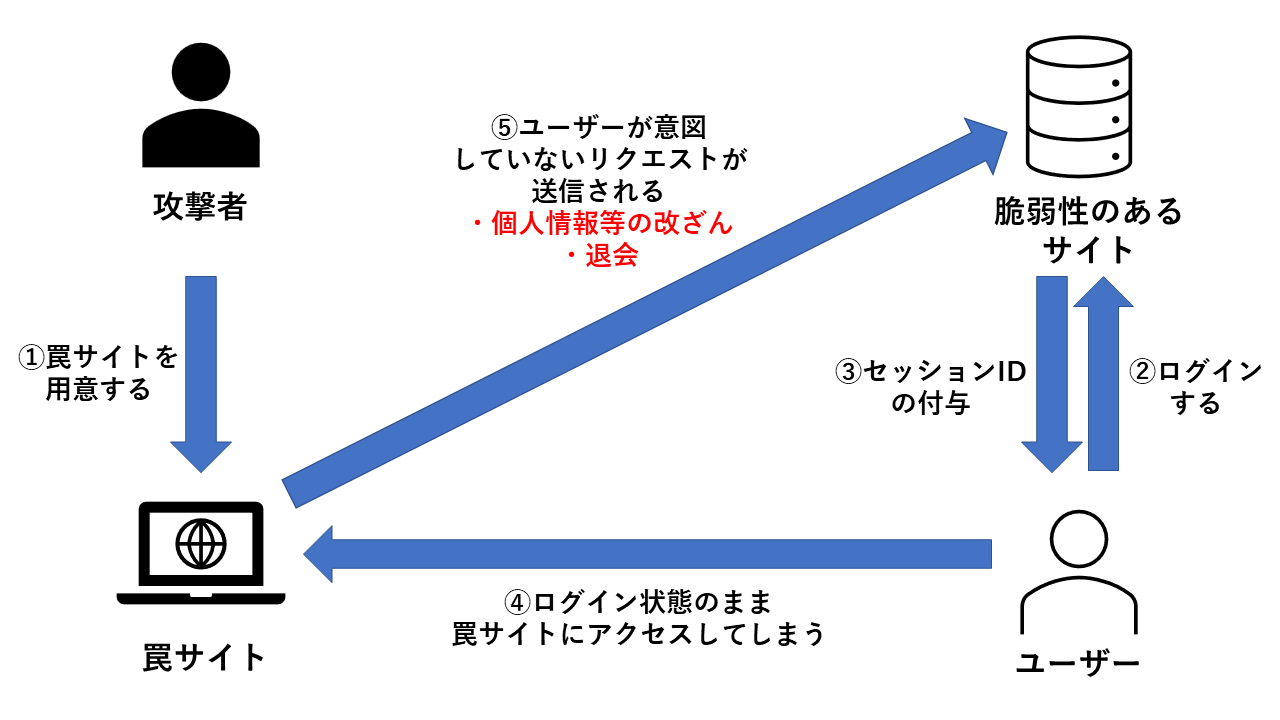
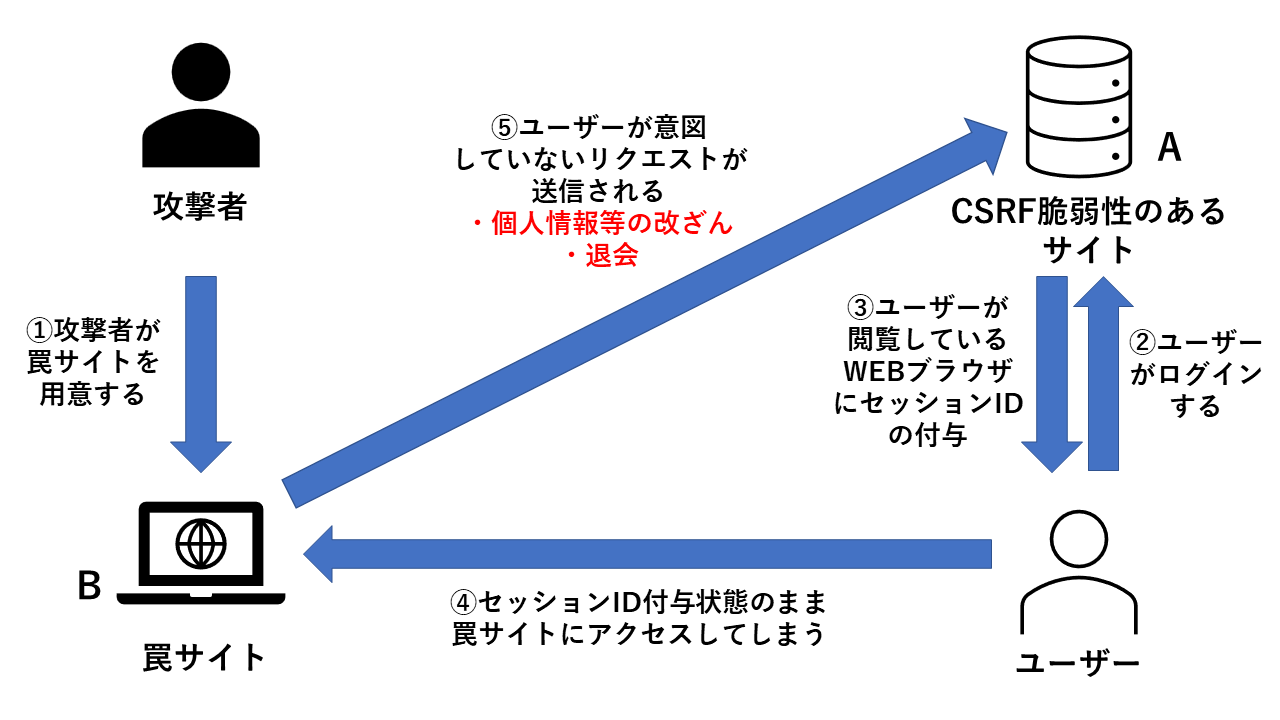
Update

diff --git a/go/static/OpenRedirect/IndexOpenRedirect.html b/go/static/OpenRedirect/IndexOpenRedirect.html
@@ -9,20 +9,43 @@
 <body>
     <h1>オープンリダイレクト攻撃</h1>
     <div>
-        オープンリダイレクト攻撃とは、webブラウザであるサイトを入力したときに、他のサイトへ自動的に移動するリダイレクトという機能を悪用した攻撃のことです。フィッシング詐欺などに悪用されます。
-        <img src="../../resources/images/openredirect.png" width="600px" alt="nothing">
+        オープンリダイレクト攻撃とは、webブラウザであるサイトを入力したときに、
+        他のサイトへ自動的に移動するリダイレクトという機能を悪用した攻撃のことです。
+        フィッシング詐欺などに悪用されます。
+        <img src="../../resources/images/openredirect.png" width="600px" 
+        alt="nothing"><br>
+        ①攻撃者はまず、オープンリダイレクト脆弱性のあるサイト（A）を探し出します。
+        その後、アクセスすると情報が盗まれるような
+        悪意のあるアプリケーション（Ｂ）を用意します。<br>
+        ②Ａのオープンリダイレクト脆弱性を利用して、
+        強制的にＢにリダイレクトするような、
+        罠となるリンクを作成します。<br>
+        &emsp;そのリンクを、普段Ａを利用しているユーザーにメールで送り付けます。<br>
+        ③ユーザーはそのリンクを信頼できるＷＥＢアプリケーションだと判断し、
+        アクセスされてしまいます。<br>
+        ④ユーザーは強制的にリダイレクトされます。<br>
+        ⑤④のリダイレクトにより、ユーザーはＢにアクセスしてしまい。
+        情報を盗まれてしまいます。
     </div><br>
     <div>
         それでは、オープンリダイレクト攻撃の演習を行っていきます。<br>
         まず、以下のリンクをクリックして、どのようなものか確認してください。<br>
-        <a href="/OpenRedirect/LoginForm">オープンリダイレクト脆弱性をもったサイト</a>
+        <a href="/OpenRedirect/LoginForm">
+            オープンリダイレクト脆弱性をもったサイト</a>
     </div><br>
     <div>
-        以下のリンクがリダイレクト機能を悪用したものになります。アクセス後にURLを確認してもらえれば、url変数に罠サイトへのリンクが代入されていることがわかります。この変数はリダイレクト機能に使われるものであるため、ログインが成功したらそのリンクへと遷移させることができます。
+        以下のリンクがリダイレクト機能を悪用したものになります。
+        アクセス後にURLを確認してもらえれば、
+        url変数に罠サイトへのリンクが代入されていることがわかります。
+        この変数はリダイレクト機能に使われるものであるため、
+        ログインが成功したらそのリンクへと遷移させることができます。
         このリンクにアクセスすることが図の③にあたります。<br>
         これがオープンリダイレクト攻撃です。<br>
-        それでは、以下のリンクにアクセスしてオープンリダイレクト攻撃を体験してみてください。<br>
-        <a href="/OpenRedirect/LoginForm?url=http://localhost:8080/OpenRedirect/TrapSite1">オープンリダイレクトテスト</a>
+        それでは、以下のリンクにアクセスしてオープンリダイレクト攻撃を
+        体験してみてください。<br>
+        <a href="/OpenRedirect/LoginForm?url=
+        http://localhost:8080/OpenRedirect/TrapSite1">
+        オープンリダイレクトテスト</a>
     </div>
 </body>
 </html>

diff --git a/go/static/CSRF/IndexCSRF.html b/go/static/CSRF/IndexCSRF.html
@@ -9,13 +9,33 @@
 <body>
     <h1>CSRF</h1>
     <div>
-        CSRFとは、正規のユーザーが意図していないリクエストを攻撃者が強制的に送信することで、正規のユーザーしかできないはずの操作を行うことができる攻撃のことです。<br>
-        ユーザー認証に不備のある（CSRF脆弱性をもつ）サイトに正規ユーザーがログインしている状態で、その正規ユーザーが罠サイトにアクセスしてしまうと、正規ユーザーが意図していないリクエストが送信されてしまいます。<br>
-        ユーザー認証にはCookie認証やHTTP認証などがありますが、それらの認証が不十分であるときにこの脆弱性が発生します。<br>
+        CSRFとは、正規のユーザーが意図していないリクエストを攻撃者が強制的に
+        送信することで、正規のユーザーしかできないはずの操作を行うことができる
+        攻撃のことです。<br>
+        ユーザー認証に不備のある（CSRF脆弱性をもつ）サイトに正規ユーザーが
+        ログインしている状態で、その正規ユーザーが罠サイトにアクセスしてしまうと、
+        正規ユーザーが意図していないリクエストが送信されてしまいます。<br>
+        ユーザー認証にはCookie認証やHTTP認証などがありますが、
+        それらの認証が不十分であるときにこの脆弱性が発生します。<br>
         以下のCSRFテストでは、Cookieのみでセッション管理しています。<br>
-        Cookieとはブラウザ内に保存される情報のことで、これを使うことで二回目以降のアクセスで、ユーザーへの情報の提供がスムーズにできるようになります。<br>
-        しかし、Cookieのみでユーザー認証を行うとCSRF脆弱性が発生してしまいます。<br>
+        Cookieとはブラウザ内に保存される情報のことで、
+        これを使うことで二回目以降のアクセスで、ユーザーへの情報の提供が
+        スムーズにできるようになります。<br>
+        しかし、Cookieのみでユーザー認証を行うと
+        CSRF脆弱性が発生してしまいます。<br>
         <img src="../../resources/images/csrf.png" width="600px" alt="nothing">
+        <br>
+        ①攻撃者はまず、CSRF脆弱性のあるサイト（A）を探し出します。
+        その後、CSRF脆弱性を利用して、Aで不正な操作を行うリクエストを含んだ罠サイトを
+        用意します。<br>
+        ②ユーザーがAにログインします。<br>
+        ③②と同時に、ユーザーが閲覧しているWEBブラウザにセッションIDが付与されます。
+        <br>
+        ④そのセッションIDが付与されている状態で、攻撃者が何らかの方法で誘導し、
+        Bにアクセスさせます。<br>
+        ⑤Bに仕込まれていた不正なリクエストがAに送信され、個人情報の改ざんや
+        退会の操作等のユーザーが意図していない操作が行われてしまいます。
+
     </div><br>
     <div>
         では、以下のリンクをクリックして体験してみてください<br>

diff --git a/go/static/XSS/IndexXSS.html b/go/static/XSS/IndexXSS.html
@@ -9,13 +9,29 @@
 <body>
     <h1>XSS</h1>
     <div>
-        XSSとは、webサイトの脆弱性をついて、攻撃者の作成した悪質なサイトへと誘導するスクリプトを仕込み、誤ってサイトに訪れてしまった人の情報を盗む攻撃のことです。<br>
-        脆弱性のある掲示板やコメント欄などに、罠となるスクリプトを仕掛け、ユーザーにクリックさせることで、スクリプトを実行させます。<br>
-        そうすることで罠サイトに遷移させられてしまい、情報が盗まれてしまいます。<br>
-        <img src="../../resources/images/xss.png" width="600px" alt="nothing">
+        XSSとは、webサイトの脆弱性をついて、攻撃者の作成した悪質なサイトへと
+        誘導するスクリプトを仕込み、誤ってサイトに訪れてしまった人の情報を
+        盗む攻撃のことです。<br>
+        脆弱性のある掲示板やコメント欄などに、罠となるスクリプトを仕掛け、
+        ユーザーにクリックさせることで、スクリプトを実行させます。<br>
+        そうすることで罠サイトに遷移させられてしまい、
+        情報が盗まれてしまいます。<br>
+        <img src="../../resources/images/xss.png" width="600px" alt="nothing"><br>
+        ①攻撃者はまず、XSS脆弱性があるサイト（Ａ）を探し出します。
+        その後、XSS脆弱性を利用して、A上で不正に実行されてしまうような
+        スクリプトを作成します。<br>
+        &emsp;そのスクリプトが隠されたAへのリンク（罠）を
+        掲示板のようなサイト（Ｂ）にしかけます。<br>
+        ②ユーザーが誤ってＢにしかけられた罠を閲覧してしまいます。<br>
+        ③罠を閲覧してしまったユーザーはＡに誘導されます。<br>
+        ④③と同時に、罠に隠されていた不正なスクリプトがAで実行されて
+        しまいます。このスクリプトにより、ユーザーが入力した情報や
+        Cookieが攻撃者へ漏洩したり、マルウェアに感染されたり
+        してしまいます。
     </div><br>
     <div>
-        本演習では、図における①と④の体験をしてもらいます。では、以下のリンクをクリックしてみてください。<br>
+        本演習では、図における①と④の体験をしてもらいます。
+        では、以下のリンクをクリックしてみてください。<br>
         <a class="url" href="/XSS/XSSform">XSSテスト</a>
     </div>
 </body>

diff --git a/go/static/ClickJacking/IndexClickJacking.html b/go/static/ClickJacking/IndexClickJacking.html
@@ -9,17 +9,29 @@
 <body>
     <h1 class="MainTitle">クリックジャッキング</h1>
     <div class="text">
-        クリックジャッキングとは、WEBサイト上に隠されたリンクやボタンを置いて、気づかれないようにクリックさせて、意図しない操作をさせる攻撃のことです。
-    </div>
-    <img src="../../resources/images/clickjacking.png" width="600px" alt="nothing">
+        クリックジャッキングとは、WEBサイト上に隠されたリンクやボタンを置いて、
+        気づかれないようにクリックさせて、意図しない操作をさせる攻撃のことです。
+        <img src="../../resources/images/clickjacking.png" width="600px" 
+        alt="nothing"><br>
+        ①攻撃者はまず、WEBサイト上に、HTMLのiframeというタブを使用して
+        ユーザーが普段使用しているサイトのページBを表示します。
+        そこに、攻撃者が用意したページAをJavaScriptで透明にして重ねます。<br>
+        ②ユーザーがそのサイトにアクセスしても、
+        ユーザーからはページBしか見えないため、信頼してしまいます。<br>
+        ③ユーザーがページBをクリックしたと思っても
+        隠れているページAをクリックしてしまい、
+        意図していない操作が行われてしまいます。
+    </div><br>
     <div>
-        それでは、クリックジャッキングの演習を行っていきます。まず、以下のECサイトがどのようなものかの確認を行ってください。<br>
+        それでは、クリックジャッキングの演習を行っていきます。
+        まず、以下のECサイトがどのようなものかの確認を行ってください。<br>
         <a href="/ClickJacking/NormalShop">ECサイト</a>
     </div><br>
     <div>
         ECサイトでリンゴが購入できたことが確認できましたか？<br>
         次に以下のクリックジャッキングテストをクリックしてみてください。<br>
-        <a href="/ClickJacking/ClickJackingTest">クリックジャッキングテスト</a>
+        <a href="/ClickJacking/ClickJackingTest">
+            クリックジャッキングテスト</a>
     </div>
 </body>
 </html>

diff --git a/go/static/SQLinjection/IndexSQLinjection.html b/go/static/SQLinjection/IndexSQLinjection.html
@@ -9,9 +9,23 @@
 <body>
     <h1>SQLインジェクション</h1>
     <div>
-        SQLインジェクションとは、SQLの呼び出し方に不備があるようなときに意図されていないSQL文が作成されてしまうことによりデータベースを不正に操作されるような攻撃のことです。<br>
-        SQLとはデータベースを操作する言語のことで、脆弱性をついてSQL文を改ざんすることで、データベースを不正に操作します。<br>
-        <img src="../../resources/images/sqlinjection.png" width="600px" alt="nothing">
+        SQLインジェクションとは、SQLの呼び出し方に不備があるようなときに
+        意図されていないSQL文が作成されてしまうことにより
+        データベースを不正に操作されるような攻撃のことです。<br>
+        SQLとはデータベースを操作する言語のことで、
+        脆弱性をついてSQL文を改ざんすることで、データベースを不正に操作します。<br>
+        <img src="../../resources/images/sqlinjection.png" 
+        width="600px" alt="nothing"><br>
+        ①攻撃者はまず、XSS脆弱性があるサイト（Ａ）を探し出します。
+        その後、XSS脆弱性を利用して、A上で不正に実行されてしまうような
+        スクリプトを作成します。<br>
+        &emsp;そのスクリプトが隠されたAへのリンク（罠）を
+        掲示板のようなサイト（Ｂ）にしかけます。<br>
+        ②ユーザーが誤ってＢにしかけられた罠を閲覧してしまいます。<br>
+        ③罠を閲覧してしまったユーザーはＡに誘導されます。<br>
+        ④③と同時に、罠に隠されていた不正なスクリプトがAで実行されてしまいます。<br>
+        &emsp;このスクリプトにより、ユーザーが入力した情報やCookieが攻撃者へ漏洩したり、
+        マルウェアに感染されたりしてしまいます。
     </div><br>
     <div>
         それでは、SQLインジェクションの演習を行っていきます。<br>

diff --git a/go/static/Index.html b/go/static/Index.html
@@ -9,14 +9,16 @@
 <body>
   <h1>WEBアプリケーション攻撃演習</h1>
   <div>
-    WEBアプリケーション攻撃の簡単な体験をすることができます。以下の項目から興味のある攻撃をクリックしてみてください。
+    WEBアプリケーション攻撃の簡単な体験をすることができます。
+    以下の項目から興味のある攻撃をクリックしてみてください。
   </div>
   <li>
     <ol><a href="/XSS/Index">XSS</a></ol>
     <ol><a href="/CSRF/Index">CSRF</a></ol>
     <ol><a href="/ClickJacking/Index">クリックジャッキング</a></ol>
     <ol><a href="/OpenRedirect/Index">オープンリダイレクト</a></ol>
-    <ol><a href="/SQLinjection/Index">SQLインジェクション（docker-composeでのビルドの場合のみ）</a></ol>
+    <ol><a href="/SQLinjection/Index">SQLインジェクション
+      （GitHubからインストールした場合のみ）</a></ol>
   </li>
 </body>
 </html>
